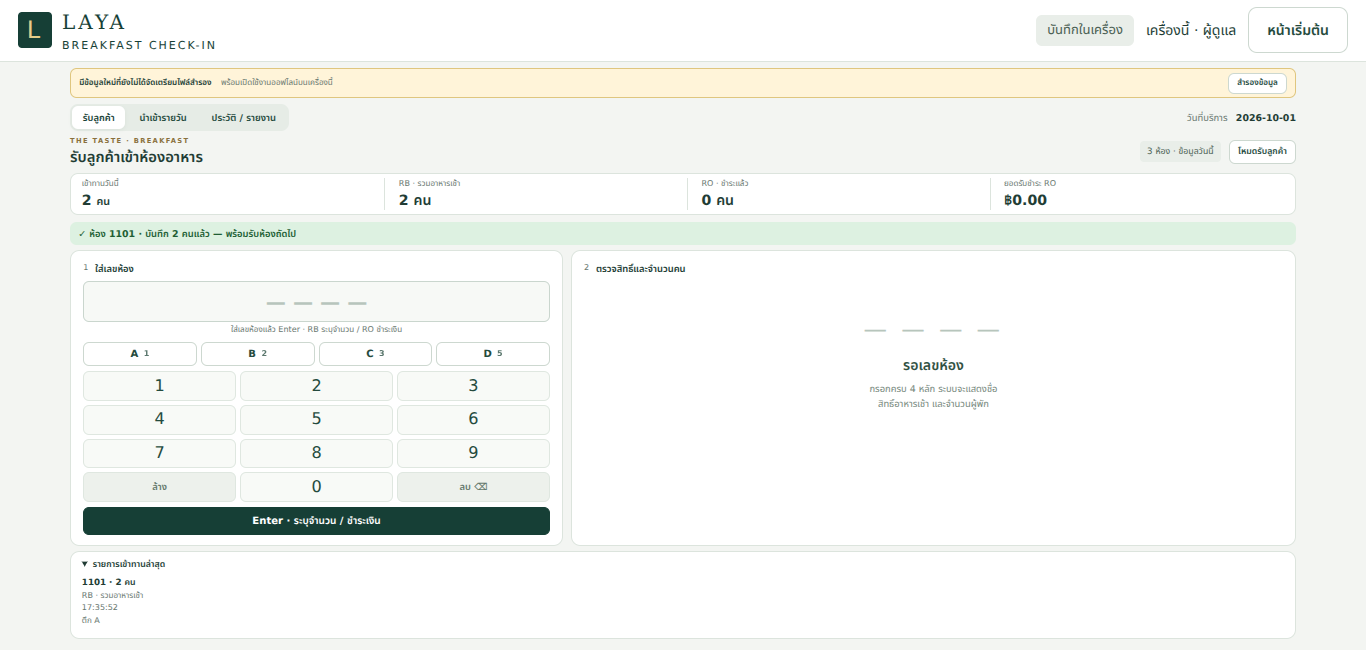
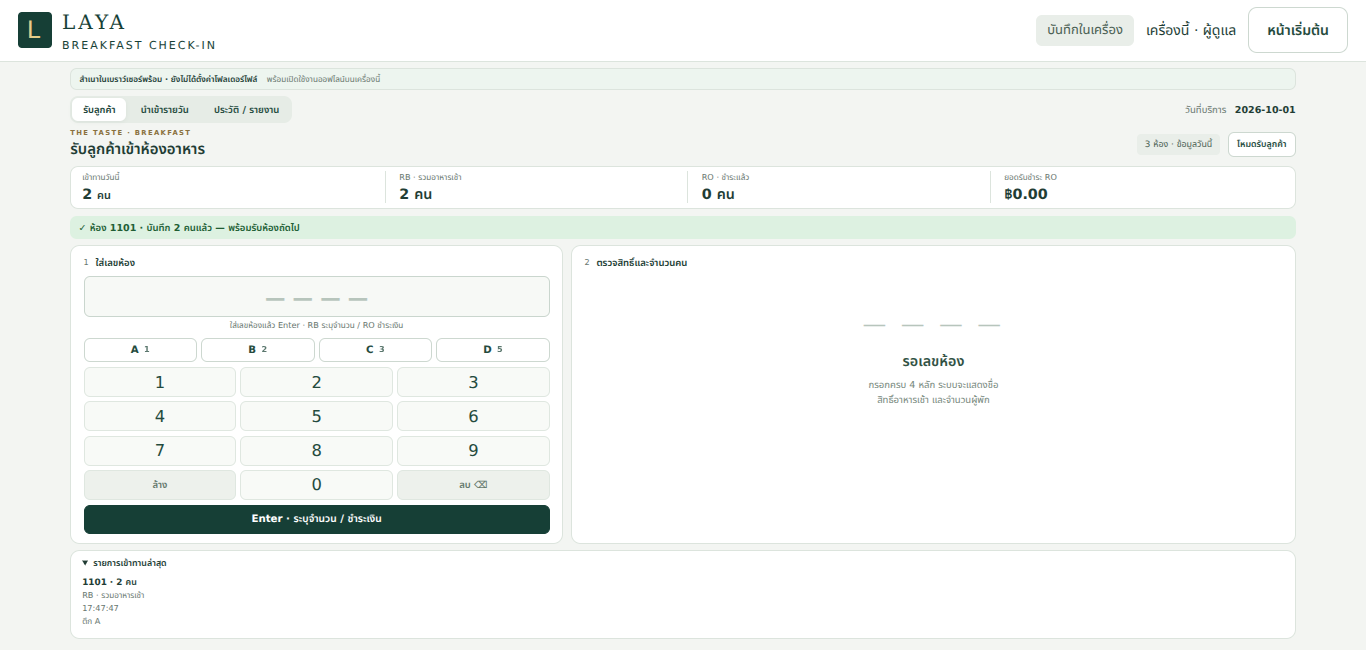
Add files via upload

diff --git a/index.html b/index.html
@@ -5,7 +5,7 @@
 <main>
 <section id="gate" class="gate panel"><div class="eyebrow">THE TASTE · STAFF ACCESS</div><h1>พร้อมต้อนรับ<br>มื้อเช้าวันใหม่</h1><p>ตรวจสิทธิ์อาหารเช้าและบันทึกจำนวนแขกจากเลขห้อง</p><button id="start-local" class="primary full">เปิดข้อมูลในเครื่องนี้</button><p class="hint">ไม่ใช้ Firebase · ไม่ต้องเข้าสู่ระบบ<br>ข้อมูลอยู่ในเบราว์เซอร์ของโน้ตบุ๊กเครื่องนี้</p><button id="demo" class="full">ทดลองใช้งานด้วยข้อมูลสมมติ</button><div id="gate-error" class="error" role="alert"></div></section>
 <div id="workspace" hidden>
-<div id="local-backup-reminder" class="local-backup-bar" hidden><div><strong id="backup-status">ตรวจข้อมูลสำรอง…</strong><small id="offline-status">เตรียมเปิดออฟไลน์</small></div><button id="backup-shortcut" type="button">สำรองข้อมูล</button></div><div class="toolbar"><nav aria-label="เมนูหลัก"><button data-page="check" aria-pressed="true">รับลูกค้า</button><button data-page="import" aria-pressed="false">นำเข้ารายวัน</button><button data-page="history" aria-pressed="false">ประวัติ / รายงาน</button></nav><div class="today">วันที่บริการ <strong id="service-date"></strong></div></div>
+<div id="local-backup-reminder" class="local-backup-bar" hidden><div><strong id="backup-status">ตรวจข้อมูลสำรอง…</strong><small id="offline-status">เตรียมเปิดออฟไลน์</small></div></div><div class="toolbar"><nav aria-label="เมนูหลัก"><button data-page="check" aria-pressed="true">รับลูกค้า</button><button data-page="import" aria-pressed="false">นำเข้ารายวัน</button><button data-page="history" aria-pressed="false">ประวัติ / รายงาน</button></nav><div class="today">วันที่บริการ <strong id="service-date"></strong></div></div>
 <section id="page-check">
 <div class="page-title reception-title"><div><div class="eyebrow">THE TASTE · BREAKFAST</div><h1>รับลูกค้าเข้าห้องอาหาร</h1></div><div class="reception-actions"><span id="roster-status" class="tag">ยังไม่มีข้อมูลวันนี้</span><button id="focus-mode" type="button" aria-pressed="false">โหมดรับลูกค้า</button></div></div>
 <div class="reception-summary" aria-label="ยอดเข้าทานวันนี้"><div><small>เข้าทานวันนี้</small><strong><span id="total">0</span> <span class="unit">คน</span></strong></div><div><small>RB · รวมอาหารเช้า</small><strong id="rb-total">0 คน</strong></div><div><small>RO · ชำระแล้ว</small><strong id="ro-total">0 คน</strong></div><div><small>ยอดรับชำระ RO</small><strong id="revenue">฿0.00</strong></div></div>
@@ -19,7 +19,7 @@
 <details class="panel reception-recent"><summary>รายการเข้าทานล่าสุด</summary><div id="recent" class="empty">ยังไม่มีรายการ</div></details>
 </section>
 <section id="page-import" hidden><div class="page-title"><div><div class="eyebrow">DAILY GUEST LIST</div><h1>นำเข้าข้อมูลผู้เข้าพัก</h1></div><a href="./sample-guests.csv" download class="button">ดาวน์โหลด CSV ตัวอย่าง</a></div><div id="admin-only" class="notice" hidden>เฉพาะผู้ดูแลระบบเท่านั้นที่นำเข้าข้อมูลได้</div><div id="import-controls" class="panel"><div class="pdf-import-box"><h2>อัปโหลดรายงาน PDF ประจำวัน</h2><p>เลือกไฟล์ RDL และ LRR ของวันเดียวกันพร้อมกัน ระบบรวมเป็นรายการเดียวก่อนบันทึก</p><div class="form-grid"><label>วันที่ใช้สิทธิ์อาหารเช้า<input id="pdf-date" type="date"></label><label>รายงาน Guests INH (เลือกได้หลายไฟล์)<input id="pdf-files" type="file" accept=".pdf" multiple></label></div><button id="read-pdfs" class="primary">อ่าน PDF และตรวจสอบ</button><div id="pdf-progress" role="status"></div><div id="pdf-results"></div></div><hr><h2>หรือนำเข้าจาก Excel / CSV</h2><div class="form-grid"><label>วันที่บริการ<input type="date" id="import-date" required></label><label>ไฟล์รายงาน CSV / Excel<input type="file" id="file" accept=".csv,.tsv,.xlsx,.xls"></label></div><p class="hint">แถวแรกเป็นหัวคอลัมน์ · Excel ใช้แผ่นงานแรก · ขนาดสูงสุด 5 MB · สำหรับ PDF ให้ใช้ปุ่มอัปโหลดด้านบน</p><div id="mapping" hidden><div class="form-grid"><label>รูปแบบข้อมูล<select id="row-mode"><option value="room">หนึ่งแถวต่อห้อง (มีจำนวนผู้พัก)</option><option value="guest">หนึ่งแถวต่อแขก (นับแถวเป็นจำนวนคน)</option></select></label></div><div class="map-grid" id="map-fields"></div><button id="preview" class="primary">ตรวจสอบข้อมูล</button></div><div id="import-preview" aria-live="polite"></div><button id="commit-import" class="primary full" hidden>ยืนยันนำเข้าข้อมูล</button></div></section>
-<section id="page-history" hidden><div class="page-title"><div><div class="eyebrow">SERVICE REPORT</div><h1>ประวัติการเข้าทาน</h1></div><div class="report-actions"><button id="export-phases" class="primary">Excel แยก 2 Phase</button><button id="print-phases">พิมพ์สรุป 2 ใบ</button><button id="export">CSV ตามตัวกรอง</button></div></div><div class="panel"><div class="form-grid"><label>วันที่รายงาน<input id="history-date" type="date"></label><label>ตึก<select id="building-filter"><option value="">ทุกตึก</option><option>A</option><option>B</option><option>C</option><option>D</option></select></label></div><p class="hint">รายงาน 2 Phase รวมทุกตึกของวันที่เลือก · Phase 1: A/B/C · Phase 2: D</p><div id="phase-cards" class="phase-cards"></div><div id="history-summary" class="summary"></div><div class="table-wrap"><table><thead><tr><th>เวลา</th><th>ห้อง / ตึก</th><th>ชื่อแขก</th><th>คน</th><th>สิทธิ์</th><th>ยอดชำระ</th><th>พนักงาน</th></tr></thead><tbody id="history-body"></tbody></table></div></div></section>
-<section id="backup-panel" class="panel backup-panel" hidden><h2>ข้อมูลของโน้ตบุ๊กเครื่องนี้</h2><p id="backup-total"></p><p class="hint">สำรองหลังจบอาหารเช้าทุกวัน ไฟล์ JSON ใช้กู้คืนรายชื่อ ประวัติ ยอดรับเงิน และกฎ Rate Code<br>เก็บสำเนาไว้อีกที่ เช่น USB ข้อมูลในเครื่องไม่ถูกส่งขึ้น GitHub</p><button id="backup-data" class="primary">ดาวน์โหลดไฟล์สำรองทั้งหมด</button><hr><label>กู้คืนจากไฟล์สำรอง JSON<input id="restore-file" type="file" accept=".json,application/json"></label><p id="restore-preview" role="status"></p><button id="confirm-restore" hidden>ยืนยันกู้คืนและแทนที่ข้อมูล</button><p class="hint">ใช้ Chrome หรือ Edge โปรไฟล์เดิมและ URL เดิม ไม่ใช้โหมดไม่ระบุตัวตน การล้างข้อมูลเว็บไซต์จะลบข้อมูลในเครื่อง</p></section></div><div id="message" role="status" hidden></div>
+<section id="page-history" hidden><div class="page-title"><div><div class="eyebrow">SERVICE REPORT</div><h1>ประวัติการเข้าทาน</h1></div><div class="report-actions"><button id="export-phases" class="primary">Excel แยก 2 Phase</button><button id="print-phases">พิมพ์สรุป 2 ใบ</button><button id="export">CSV ตามตัวกรอง</button></div></div><div class="panel"><div class="form-grid"><label>วันที่รายงาน<input id="history-date" type="date"></label><label>ตึก<select id="building-filter"><option value="">ทุกตึก</option><option>A</option><option>B</option><option>C</option><option>D</option></select></label></div><p class="hint">รายงาน 2 Phase รวมทุกตึกของวันที่เลือก · Phase 1: A/B/C · Phase 2: D</p><div id="phase-cards" class="phase-cards"></div><div id="history-summary" class="summary"></div><details id="day-management" class="day-management"><summary>จัดการข้อมูลวันที่เลือก</summary><p>เลือกวันที่รายงานด้านบนก่อน ระบบสำรองไฟล์ก่อนล้างหรือลบเสมอ</p><div class="report-actions"><button id="reset-day-counts" type="button">ล้างยอดเข้าทาน · เก็บรายชื่อไว้</button><button id="delete-day-all" type="button" class="danger">ลบข้อมูลวันที่เลือกทั้งหมด</button></div><p class="hint">ล้างยอดจะลบประวัติเข้าทานและยอดรับเงินของวันนั้น เพื่อนับใหม่ · วันอื่นไม่เปลี่ยน</p></details><div class="table-wrap"><table><thead><tr><th>เวลา</th><th>ห้อง / ตึก</th><th>ชื่อแขก</th><th>คน</th><th>สิทธิ์</th><th>ยอดชำระ</th><th>พนักงาน</th></tr></thead><tbody id="history-body"></tbody></table></div></div></section>
+<section id="backup-panel" class="panel backup-panel" hidden><h2>ข้อมูลของโน้ตบุ๊กเครื่องนี้</h2><p id="backup-total"></p><p class="hint">ระบบเก็บสำเนาในเบราว์เซอร์อัตโนมัติทุกครั้งที่ข้อมูลเปลี่ยน เลือกโฟลเดอร์ครั้งแรกเพื่อให้ระบบเขียนไฟล์ JSON ในโน้ตบุ๊กอัตโนมัติด้วย<br>หากเบราว์เซอร์ถอนสิทธิ์ ต้องอนุญาตโฟลเดอร์อีกครั้ง ข้อมูลในเครื่องไม่ถูกส่งขึ้น GitHub</p><p id="folder-backup-status" role="status"></p><button id="setup-backup-folder" type="button">ตั้งค่าโฟลเดอร์สำรองอัตโนมัติ</button><hr><label>กู้คืนจากไฟล์สำรอง JSON<input id="restore-file" type="file" accept=".json,application/json"></label><p id="restore-preview" role="status"></p><button id="confirm-restore" hidden>ยืนยันกู้คืนและแทนที่ข้อมูล</button><p class="hint">ใช้ Chrome หรือ Edge โปรไฟล์เดิมและ URL เดิม ไม่ใช้โหมดไม่ระบุตัวตน การล้างข้อมูลเว็บไซต์จะลบข้อมูลในเครื่อง</p></section></div><div id="message" role="status" hidden></div>
 </main><footer>LAYA · Restaurant Operations <span>เวลาไทย (UTC+7)</span></footer>
 <div id="phase-print-pages"></div><dialog id="rb-dialog" aria-labelledby="rb-title" aria-describedby="rb-count-hint"><div class="payment-dialog-heading"><div><div class="eyebrow">BREAKFAST INCLUDED</div><h2 id="rb-title">มาทานกี่คน?</h2></div><button id="cancel-rb" type="button">ยกเลิก</button></div><h3 id="rb-room"></h3><p id="rb-names"></p><p id="rb-remaining" class="rb-remaining"></p><p id="rb-count-hint" class="hint">พิมพ์จำนวนแขก แล้วกด Enter เพื่อบันทึก</p><div id="rb-body"></div></dialog><dialog id="payment-dialog" aria-labelledby="payment-title" aria-describedby="payment-hint"><div class="payment-dialog-heading"><div><div class="eyebrow">ROOM ONLY</div><h2 id="payment-title">รับชำระค่าอาหารเช้า</h2></div><button id="cancel-payment" type="button">ยกเลิก</button></div><h3 id="payment-room"></h3><p id="payment-names"></p><p id="payment-hint" class="hint">ระบุจำนวนคนและยอดรับเงิน แล้วติ๊กว่าได้รับชำระแล้วก่อนยืนยัน</p><div id="payment-body"></div></dialog><script type="module" src="./app.js"></script><noscript>กรุณาเปิด JavaScript เพื่อใช้งาน</noscript></body></html>

diff --git a/app.js b/app.js
@@ -1,3 +1,4 @@
+import {createAutoBackup} from './auto-backup.js';
 import {splitPhaseReports,phaseSheetRows} from './phase-reports.js';
 import {mountPdfWorkflow} from './pdf-workflow.js';
 import {localStore,readBackup} from './local-store.js';
@@ -130,12 +131,14 @@ let notebookStore;
 async function startLocal(){try{notebookStore ||= await localStore();activate(notebookStore);refreshBackupStatus();}catch(e){$('#gate-error').textContent='เปิดข้อมูลในเครื่องไม่สำเร็จ: '+errorMessage(e);}}
 $('#start-local').addEventListener('click',startLocal);
 function download(text,name,type='application/json'){const url=URL.createObjectURL(new Blob([text],{type}));const a=document.createElement('a');a.href=url;a.download=name;a.click();setTimeout(()=>URL.revokeObjectURL(url),1000);}
-async function refreshBackupStatus(){if(!store?.local)return;try{const s=await store.status();$('#backup-status').textContent=s.dirty?'มีข้อมูลใหม่ที่ยังไม่ได้จัดเตรียมไฟล์สำรอง':s.backupAt?'จัดเตรียมไฟล์สำรองล่าสุด '+new Date(s.backupAt).toLocaleString('th-TH'):'ยังไม่มีไฟล์สำรอง';$('#local-backup-reminder').classList.toggle('backup-dirty',s.dirty);$('#backup-total').textContent=s.days+' วัน · '+s.events+' รายการเข้าทาน';}catch(e){failure(e);}}
-async function backup(){if(!store?.local)return;const b=$('#backup-data');b.disabled=true;try{const saved=await store.exportBackup();download(saved.text,'LAYA_Backup_'+today()+'_'+Date.now()+'.json');await store.markBackup(saved.revision);refreshBackupStatus();message('จัดเตรียมไฟล์สำรองแล้ว กรุณาตรวจว่าไฟล์อยู่ใน Downloads และคัดลอกเก็บไว้อีกที่');}catch(e){failure(e);}finally{b.disabled=false;}}
-$('#backup-data').addEventListener('click',backup);$('#backup-shortcut').addEventListener('click',backup);
+const automaticBackup=createAutoBackup({getStore:()=>store,download,notify:message,onStatus:text=>{$('#backup-status').textContent=text;$('#folder-backup-status').textContent=text;$('#local-backup-reminder').classList.remove('backup-dirty');}});
+async function refreshBackupStatus(){if(!store?.local)return;try{const s=await store.status();$('#backup-total').textContent=s.days+' วัน · '+s.events+' รายการเข้าทาน';automaticBackup.schedule();}catch(e){failure(e);}}
+async function manageDay(mode){if(busy||!store?.local)return;const date=$('#history-date').value;if(!date)return;const title=mode==='counts'?'ล้างยอดเข้าทานและยอดรับเงิน โดยเก็บรายชื่อห้องไว้':'ลบรายชื่อห้องและประวัติเข้าทานทั้งหมด';if(!confirm(title+' สำหรับวันที่ '+date+'? วันอื่นจะไม่ถูกเปลี่ยน ระบบจะสำรองไฟล์ก่อนดำเนินการ'))return;busy=true;connection();$('#reset-day-counts').disabled=true;$('#delete-day-all').disabled=true;try{const s=store,saved=await s.exportBackup();if(!JSON.parse(saved.text).state.days[date])throw new Error('ไม่มีข้อมูลในวันที่เลือก');await automaticBackup.archive(saved,mode==='counts'?'Reset_'+date:'Delete_'+date);await s.resetDay(date,mode,saved.revision);clearGuest();$('#room').value='';$('#last-success').hidden=true;updateRoomDescription();invalidateImport();document.dispatchEvent(new Event('laya-session-change'));refreshBackupStatus();message(mode==='counts'?'ล้างยอดวันที่ '+date+' แล้ว พร้อมนับใหม่':'ลบข้อมูลวันที่ '+date+' แล้ว');}catch(e){failure(e);}finally{busy=false;connection();$('#reset-day-counts').disabled=false;$('#delete-day-all').disabled=false;}}
+$('#reset-day-counts').addEventListener('click',()=>manageDay('counts'));
+$('#delete-day-all').addEventListener('click',()=>manageDay('all'));
 let restoreDraft=null;
 $('#restore-file').addEventListener('change',async e=>{restoreDraft=null;$('#confirm-restore').hidden=true;$('#restore-preview').textContent='';const file=e.target.files[0];if(!file||!store?.local)return;try{if(file.size>100*1024*1024)throw new Error('ไฟล์สำรองต้องไม่เกิน 100 MB');const payload=await readBackup(await file.text());const current=await store.exportBackup();restoreDraft={payload,current};const dates=Object.keys(payload.state.days).sort();$('#restore-preview').textContent='ไฟล์ '+file.name+' · '+dates.length+' วัน · '+Object.values(payload.state.days).reduce((n,x)=>n+x.events.length,0)+' รายการ · '+(dates.length?dates[0]+' ถึง '+dates.at(-1):'ไม่มีข้อมูล')+' — การกู้คืนจะแทนที่ข้อมูลทั้งหมดในเครื่อง';$('#confirm-restore').hidden=false;}catch(e){failure(e);}});
-$('#confirm-restore').addEventListener('click',async()=>{if(!restoreDraft||busy)return;const draft=restoreDraft;if(!confirm('กู้คืนและแทนที่ข้อมูลทั้งหมดตามไฟล์ที่ตรวจแล้ว? ระบบจะจัดเตรียมไฟล์ข้อมูลปัจจุบันให้ก่อนแทนที่'))return;busy=true;connection();$('#confirm-restore').disabled=true;try{download(draft.current.text,'LAYA_Before_Restore_'+Date.now()+'.json');await store.restoreBackup(draft.payload,draft.current.revision);restoreDraft=null;$('#confirm-restore').hidden=true;$('#restore-file').value='';$('#restore-preview').textContent='กู้คืนสำเร็จ กรุณาตรวจรายงานและสำรองข้อมูลอีกครั้ง';clearGuest();$('#room').value='';updateRoomDescription();invalidateImport();document.dispatchEvent(new Event('laya-session-change'));refreshBackupStatus();message('กู้คืนข้อมูลสำเร็จ');}catch(e){failure(e);}finally{busy=false;connection();$('#confirm-restore').disabled=false;}});
+$('#confirm-restore').addEventListener('click',async()=>{if(!restoreDraft||busy)return;const draft=restoreDraft;if(!confirm('กู้คืนและแทนที่ข้อมูลทั้งหมดตามไฟล์ที่ตรวจแล้ว? ระบบจะจัดเตรียมไฟล์ข้อมูลปัจจุบันให้ก่อนแทนที่'))return;busy=true;connection();$('#confirm-restore').disabled=true;try{await automaticBackup.archive(draft.current,'Restore');await store.restoreBackup(draft.payload,draft.current.revision);restoreDraft=null;$('#confirm-restore').hidden=true;$('#restore-file').value='';$('#restore-preview').textContent='กู้คืนสำเร็จ กรุณาตรวจรายงานและสำรองข้อมูลอีกครั้ง';clearGuest();$('#room').value='';updateRoomDescription();invalidateImport();document.dispatchEvent(new Event('laya-session-change'));refreshBackupStatus();message('กู้คืนข้อมูลสำเร็จ');}catch(e){failure(e);}finally{busy=false;connection();$('#confirm-restore').disabled=false;}});
 let offlineReady=false;
 function showOfflineStatus(){ $('#offline-status').textContent=offlineReady?'พร้อมเปิดใช้งานออฟไลน์บนเครื่องนี้':'กำลังเตรียมไฟล์สำหรับเปิดออฟไลน์…'; }
 await startLocal();

diff --git a/local-store.js b/local-store.js
@@ -46,9 +46,14 @@ export async function localStore(){
  async function emit(){const state=await read();for(const {date,cb} of listeners){const x=state.days[date]||{};cb({day:x.day||null,counts:x.counts||{},events:x.events||[],fresh:true});}}
  if(channel)channel.onmessage=()=>emit().catch(console.error);
  const changed=s=>{s.revision=crypto.randomUUID();s.changedAt=new Date().toISOString();};
- async function write(fn){const out=await transaction('readwrite',s=>{const result=fn(s);changed(s);return result;});await emit();channel?.postMessage('changed');return out;}
+ async function write(fn){const out=await transaction('readwrite',(s,bucket)=>{const result=fn(s);changed(s);bucket.put(clone(s),'auto-backup');return result;});await emit();channel?.postMessage('changed');return out;}
+ const setting=(mode,key,value)=>new Promise((resolve,reject)=>{const tx=db.transaction('data',mode),bucket=tx.objectStore('data');const q=mode==='readonly'?bucket.get(key):bucket.put(value,key);let result;q.onsuccess=()=>result=q.result;tx.oncomplete=()=>resolve(result);tx.onabort=()=>reject(tx.error);tx.onerror=()=>{};});
  const store={local:true,demo:false,user:{uid:'local-notebook',email:'โน้ตบุ๊กห้องอาหาร',role:'admin'},
   watch(date,cb,error){const listener={date,cb};listeners.add(listener);read().then(s=>{if(!listeners.has(listener))return;const x=s.days[date]||{};cb({day:x.day||null,counts:x.counts||{},events:x.events||[],fresh:true});}).catch(error||console.error);return()=>listeners.delete(listener);},
+  async getBackupFolder(){return setting('readonly','backup-folder');},
+  async setBackupFolder(handle){await setting('readwrite','backup-folder',handle);},
+  async getAutoSnapshot(){return setting('readonly','auto-backup');},
+  async resetDay(date,mode,expectedRevision){if(!validDate(date)||!['counts','all'].includes(mode))throw new Error('คำสั่งหรือวันที่ไม่ถูกต้อง');await transaction('readwrite',(s,bucket)=>{if(s.revision!==expectedRevision)throw new Error('ข้อมูลเปลี่ยนระหว่างสำรอง กรุณาลองใหม่');const x=s.days[date];if(!x)throw new Error('ไม่มีข้อมูลในวันที่เลือก');bucket.put(clone(s),'before-reset');if(mode==='all')delete s.days[date];else{x.counts={};x.events=[];}changed(s);bucket.put(clone(s),'auto-backup');return null;});await emit();channel?.postMessage('changed');},
   async getDay(date){return (await read()).days[date]?.day||null;},
   async getRateRules(){return (await read()).rateRules;},
   async saveRateRules(mapping,version){await write(s=>{if(s.rateRules.version!==version)throw new Error('รหัสราคาเปลี่ยนแล้ว กรุณาอ่านใหม่');s.rateRules={mapping:clone(mapping),version:crypto.randomUUID()};});},
@@ -59,15 +64,15 @@ export async function localStore(){
    if(r.pkg==='RB'&&(amount!==0||method!==''))throw new Error('RB ต้องไม่มียอดรับชำระ');
    x.counts[room]={count:(x.counts[room]?.count||0)+pax,lastEvent:id};x.events.push({id,room,names:clone(r.names),pkg:r.pkg,pax,amount,method,staffEmail:store.user.email,createdAt:new Date().toISOString()});
   });},
-  async status(){const s=await read();return {dirty:!!s.revision&&s.revision!==s.backupRevision,backupAt:s.backupAt,days:Object.keys(s.days).length,events:Object.values(s.days).reduce((n,x)=>n+x.events.length,0)};},
+  async status(){const s=await read();return {revision:s.revision,changedAt:s.changedAt,dirty:!!s.revision&&s.revision!==s.backupRevision,backupAt:s.backupAt,days:Object.keys(s.days).length,events:Object.values(s.days).reduce((n,x)=>n+x.events.length,0)};},
   async exportBackup(){const state=await read();const payload={format:'LAYA_BREAKFAST_LOCAL',schema:1,exportedAt:new Date().toISOString(),state,checksum:await digest(state)};return {text:JSON.stringify(payload),revision:state.revision};},
   async markBackup(revision){await transaction('readwrite',s=>{s.backupRevision=revision;s.backupAt=new Date().toISOString();return null;});},
   async restoreBackup(payload,expectedRevision){validateBackupState(payload.state);await transaction('readwrite',(s,bucket)=>{
    if(s.revision!==expectedRevision)throw new Error('ข้อมูลเปลี่ยนระหว่างตรวจไฟล์ กรุณาเลือกไฟล์สำรองใหม่');bucket.put(clone(s),'before-restore');
-   const restored=clone(payload.state);Object.assign(s,restored);changed(s);s.backupRevision=null;s.backupAt=null;return null;
+   const restored=clone(payload.state);Object.assign(s,restored);changed(s);s.backupRevision=null;s.backupAt=null;bucket.put(clone(s),'auto-backup');return null;
   });await emit();channel?.postMessage('changed');},
   async logout(){},async close(){channel?.close();db.close();}
  };
- await read();if(navigator.storage?.persist)try{await navigator.storage.persist();}catch{}
+ await transaction('readwrite',(s,bucket)=>{bucket.put(clone(s),'auto-backup');return null;});if(navigator.storage?.persist)try{await navigator.storage.persist();}catch{}
  return store;
 }

diff --git a/auto-backup.js b/auto-backup.js
@@ -1,0 +1,15 @@
+export function createAutoBackup({getStore,download,notify,onStatus}){
+ let timer=null,queue=Promise.resolve(),lastRevision,folder=null,loadedFor=null,status='ยังไม่ได้ตั้งค่าโฟลเดอร์สำรอง';
+ const show=text=>{status=text;onStatus(text);};
+ async function load(){const s=getStore();if(!s?.local)return null;if(loadedFor!==s){folder=await s.getBackupFolder();loadedFor=s;lastRevision=undefined;}return s;}
+ async function canWrite(){return !!folder&&await folder.queryPermission({mode:'readwrite'})==='granted';}
+ async function writeFile(name,text){const handle=await folder.getFileHandle(name,{create:true}),w=await handle.createWritable();try{await w.write(text);await w.close();}catch(e){try{await w.abort();}catch{}throw e;}}
+ function run(task){const job=queue.then(task);queue=job.catch(()=>{});return job;}
+ async function flush(){return run(async()=>{const s=await load();if(!s)return;const state=await s.status();if(!folder){show('สำเนาในเบราว์เซอร์พร้อม · ยังไม่ได้ตั้งค่าโฟลเดอร์ไฟล์');return;}if(!await canWrite()){show('สำเนาในเบราว์เซอร์พร้อม · ต้องอนุญาตโฟลเดอร์อีกครั้ง');return;}if(state.revision===lastRevision){onStatus(status);return;}const saved=await s.exportBackup();await writeFile('LAYA_Backup_Automatic.json',saved.text);await s.markBackup(saved.revision);lastRevision=saved.revision;show('สำรองไฟล์อัตโนมัติแล้ว · '+folder.name+' · '+new Date().toLocaleTimeString('th-TH'));});}
+ function schedule(){if(timer)return;timer=setTimeout(()=>{timer=null;flush().catch(()=>show('สำเนาในเบราว์เซอร์พร้อม · เขียนไฟล์โฟลเดอร์ไม่สำเร็จ'));},500);}
+ async function setup(){try{const s=getStore();if(!s?.local)return;await load();if(folder&&await folder.requestPermission({mode:'readwrite'})==='granted'){lastRevision=undefined;await flush();return;}if(!window.showDirectoryPicker)throw new Error('ตั้งค่าโฟลเดอร์ด้วย Chrome หรือ Edge บนโน้ตบุ๊ก');const selected=await window.showDirectoryPicker({id:'laya-breakfast-backup',mode:'readwrite'});if(await selected.requestPermission({mode:'readwrite'})!=='granted')throw new Error('ยังไม่ได้อนุญาตให้เขียนไฟล์');await s.setBackupFolder(selected);folder=selected;lastRevision=undefined;await flush();notify('ตั้งค่าแล้ว ระบบสำรองไฟล์ให้อัตโนมัติ');}catch(e){if(e.name!=='AbortError')notify(e.message||'ตั้งค่าโฟลเดอร์ไม่สำเร็จ',true);}}
+ async function archive(saved,label){return run(async()=>{await load();const name='LAYA_Before_'+label+'_'+Date.now()+'.json';if(await canWrite()){await writeFile(name,saved.text);return 'folder';}download(saved.text,name);return 'download';});}
+ document.querySelector('#setup-backup-folder').addEventListener('click',setup);
+ window.addEventListener('focus',schedule);
+ return {schedule,flush,archive};
+}

diff --git a/sw.js b/sw.js
@@ -1,6 +1,6 @@
 const PREFIX='laya-breakfast-local-'+encodeURIComponent(self.registration.scope)+'-';
-const CACHE=PREFIX+'v2.5.0';
-const ASSETS=["./", "./index.html", "./app.js", "./style.css", "./domain.js", "./local-store.js", "./phase-reports.js", "./store.js", "./pdf-import.js", "./pdf-workflow.js", "./icon.svg", "./manifest.webmanifest", "./sample-guests.csv", "./fonts/noto-sans-thai-thai-400-normal.woff2", "./fonts/noto-sans-thai-thai-600-normal.woff2", "./vendor/xlsx.full.min.js", "./vendor/pdfjs/pdf.min.mjs", "./vendor/pdfjs/pdf.worker.min.mjs"];
+const CACHE=PREFIX+'v2.6.0';
+const ASSETS=["./", "./index.html", "./app.js", "./auto-backup.js", "./style.css", "./domain.js", "./local-store.js", "./phase-reports.js", "./store.js", "./pdf-import.js", "./pdf-workflow.js", "./icon.svg", "./manifest.webmanifest", "./sample-guests.csv", "./fonts/noto-sans-thai-thai-400-normal.woff2", "./fonts/noto-sans-thai-thai-600-normal.woff2", "./vendor/xlsx.full.min.js", "./vendor/pdfjs/pdf.min.mjs", "./vendor/pdfjs/pdf.worker.min.mjs"];
 self.addEventListener('install',e=>e.waitUntil((async()=>{const cache=await caches.open(CACHE);await cache.addAll(ASSETS.map(url=>new Request(url,{cache:'reload'})));await self.skipWaiting();})()));
 self.addEventListener('activate',e=>e.waitUntil((async()=>{for(const key of await caches.keys())if(key.startsWith(PREFIX)&&key!==CACHE)await caches.delete(key);await self.clients.claim();})()));
 self.addEventListener('message',e=>{if(e.data==='STATUS')e.source?.postMessage('OFFLINE_READY');});

diff --git a/style.css b/style.css
@@ -80,3 +80,5 @@
 }
 
 @media screen and (min-width:761px){.reception-page .backup-panel{display:none}}
+
+.day-management{margin:12px 0;padding:12px 16px;background:#f9f3df;border-radius:10px}.day-management summary{cursor:pointer;font-weight:600}.danger{color:#a33126;border-color:#d7a49f}#folder-backup-status{color:#53665b;font-size:14px}

diff --git a/UPDATE-TH.md b/UPDATE-TH.md
@@ -1,10 +1,14 @@
-# Local v2.5
+# Local v2.6
 
-ปรับหน้ารับลูกค้าให้กระชับและย่อพอดีความสูงจอโน้ตบุ๊กอัตโนมัติ ไม่ต้องเลื่อนขึ้นลง
-หน้าต่างระบุจำนวน RB และรับเงิน RO ปรับพอดีหน้าจอ
-ยังใช้เลขห้อง + Enter และจำนวน + Enter ได้ตามเดิม
-ส่วนกู้คืนข้อมูลอยู่ใต้หน้านำเข้ารายวัน/ประวัติ ปุ่มสำรองยังอยู่บนหน้ารับลูกค้า
-มือถือยังใช้รูปแบบแนวตั้งตามเดิม
+เพิ่มล้างยอดเข้าทาน/ยอดรับเงินโดยเก็บรายชื่อ และลบข้อมูลทั้งหมดเฉพาะวันที่เลือก
+อยู่ในหน้า “ประวัติ / รายงาน” > เลือกวันที่ > “จัดการข้อมูลวันที่เลือก”
+ระบบให้ยืนยันวันที่และสำรองก่อนล้าง/ลบ ไม่เปลี่ยนวันอื่น
 
-ก่อนอัปเดต กดสำรองข้อมูล แล้วแทนที่ไฟล์เว็บบน GitHub Pages เดิม
-เปิด URL เดิมในเบราว์เซอร์/โปรไฟล์เดิมขณะออนไลน์หนึ่งครั้ง ปิดทุกแท็บของแอพแล้วเปิดใหม่
+เอาปุ่มสำรองออกจากหน้ารับลูกค้า
+สำเนาในเบราว์เซอร์สร้างอัตโนมัติทุกครั้งที่บันทึก
+ผู้ดูแลตั้งค่าโฟลเดอร์ครั้งแรกใต้หน้านำเข้า/ประวัติ เพื่อให้เขียนไฟล์ LAYA_Backup_Automatic.json ในเครื่องอัตโนมัติ
+หากสิทธิ์โฟลเดอร์หมด ระบบแจ้งให้อนุญาตใหม่ สำเนาในเบราว์เซอร์ยังทำงาน
+หากไม่มีสิทธิ์โฟลเดอร์ ขณะล้าง/ลบ/กู้คืนระบบดาวน์โหลดสำรองให้แทน ตรวจว่าเบราว์เซอร์อนุญาตดาวน์โหลด
+
+เปิด URL เดิมใน Chrome/Edge โปรไฟล์เดิมขณะออนไลน์หนึ่งครั้ง ปิดทุกแท็บแล้วเปิดใหม่
+ข้อมูลเดิมยังเก็บอยู่ ตั้งค่าโฟลเดอร์สำรองหลังอัปเดต
